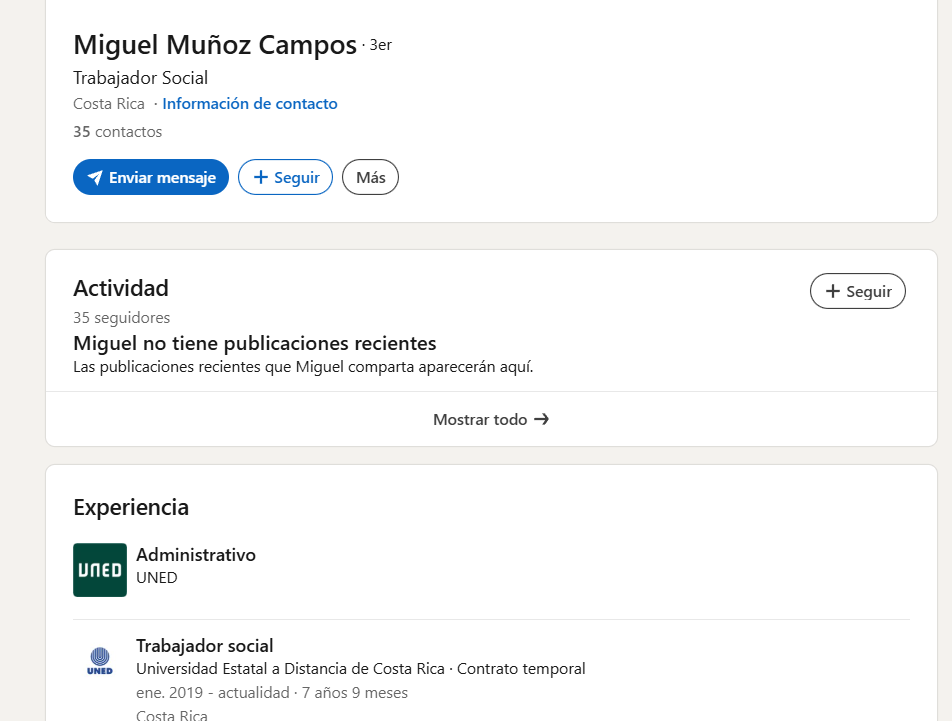
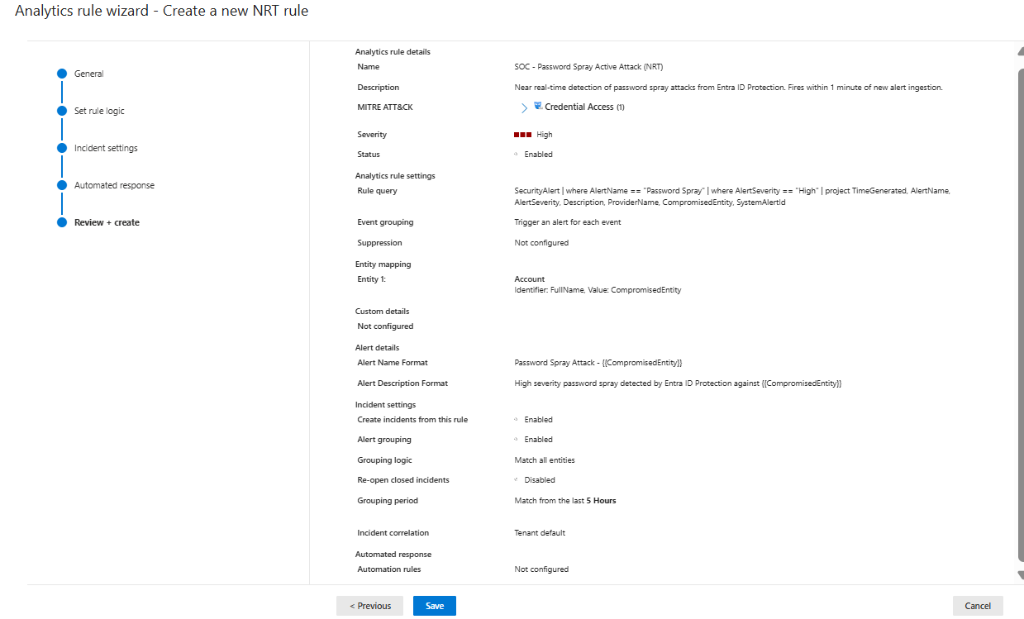
fix(privacy): replace accidental LinkedIn profile screenshot with official NRT rule wizard review and remove taskbars

diff --git a/lab-02-threat-hunting-soar-incident-response/README.md b/lab-02-threat-hunting-soar-incident-response/README.md
@@ -53,8 +53,8 @@ Engineered two complementary analytic rules to combat credential compromise:
 ![Alert Grouping](assets/05-alert-grouping.png)
 *Figure 2.5: Alert grouping configured for a 5-hour window to eliminate duplicate alert generation.*
 
-![Active Rules List](assets/06-active-rules-list.png)
-*Figure 2.6: Active custom detection rules deployed and monitoring the workspace.*
+![NRT Rule Configuration Summary](assets/06-active-rules-list.png)
+*Figure 2.6: Final configuration and review summary of the NRT Password Spray detection rule.*
 
 ---
 
